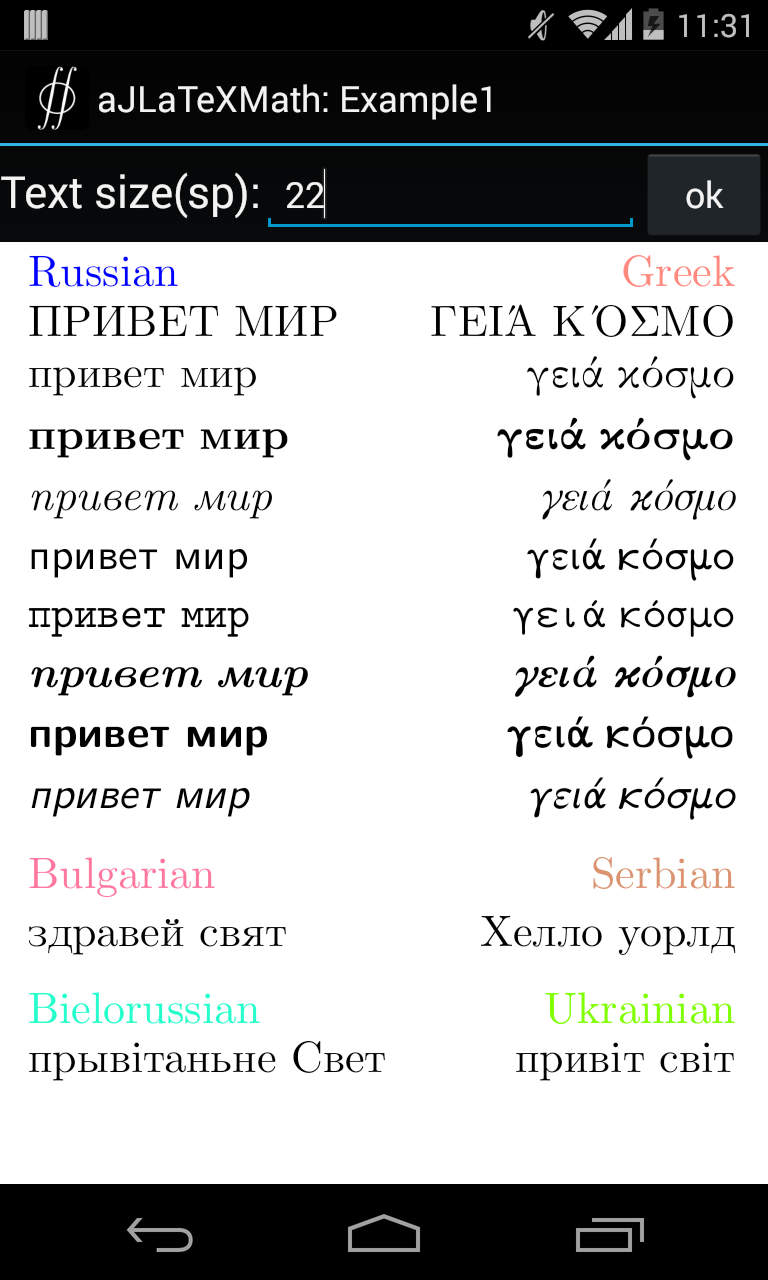
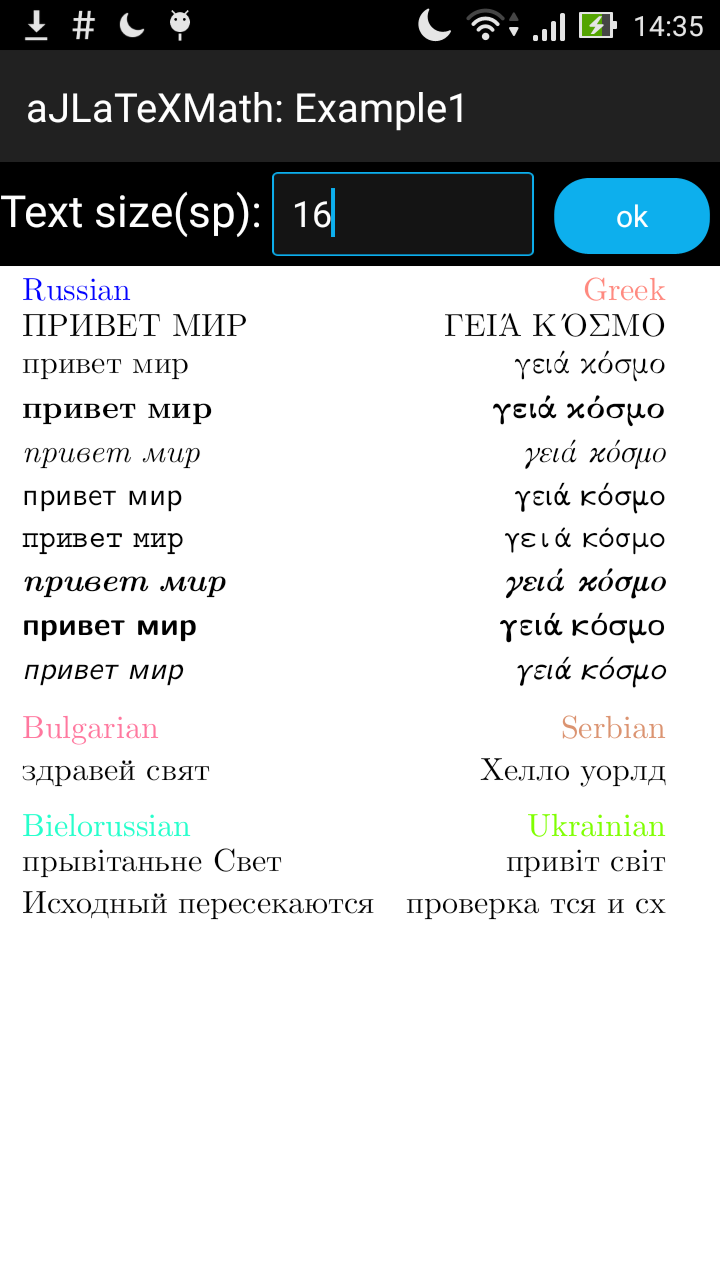
Fixes #2 display cyrillic symbols

diff --git a/src/maximsblog/blogspot/com/jlatexmath/ExampleFormula.java b/src/maximsblog/blogspot/com/jlatexmath/ExampleFormula.java
@@ -21,6 +21,7 @@ public class ExampleFormula {
 			+ "&\\\\"
 			+ "\\mbox{\\textcolor{Turquoise}{Bielorussian}}&\\mbox{\\textcolor{LimeGreen}{Ukrainian}}\\\\"
 			+ "\\mbox{прывітаньне Свет}&\\mbox{привіт світ}\\\\"
+			+ "\\mbox{Исходный пересекаются}&\\mbox{проверка тся и сх}\\\\"
 			+ "\\end{array}";
 
 	private static String mExample2 = "\\begin{array}{l}"
